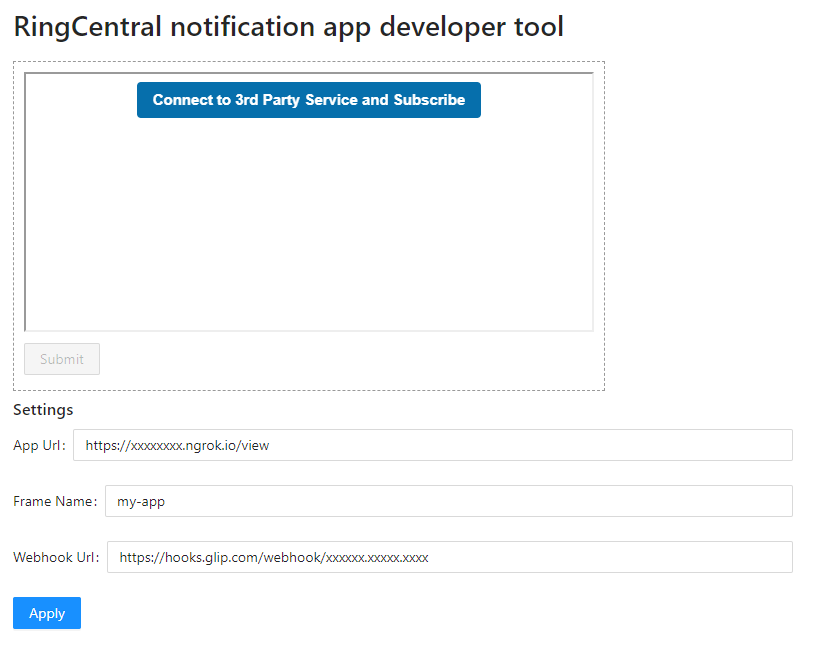
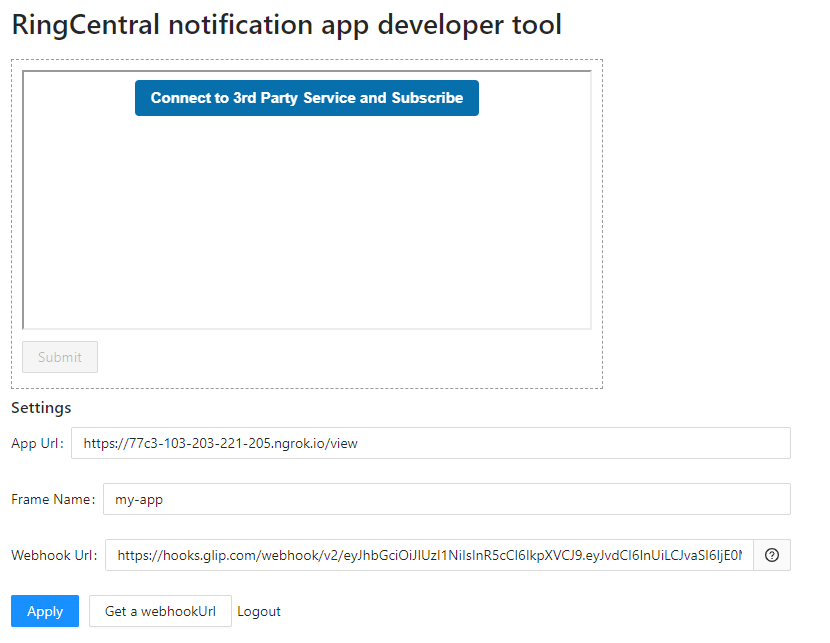
Updated with Drake's new developer tool

diff --git a/README.md b/README.md
@@ -76,7 +76,9 @@ For local development, we can use [RingCentral notification app developer tool](
 To use above tool, there are two fields we want to fill in:
 
 1. `App Url`: It is for this tool to retrieve the app's entry point to render. In our framework, it's set to `https://xxxx.ngrok.io/view`
-2. `Webhook Url`: Go to RingCentral App Gallery and add Incoming Webhook App to your conversation channel. As a result, you will get a webhook URL like `https://hooks.glip.com/webhook/xxxxx` (aka `RC_WEBHOOK`) and that's what we need here.
+2. `Webhook Url`, there are 2 ways:
+   1. Click `Get a webhookUrl` and login to your RingCentral App. Generate webhook url from your Team channel.
+   2. Go to RingCentral App Gallery and add Incoming Webhook App to your conversation channel. As a result, you will get a webhook URL like `https://hooks.glip.com/webhook/xxxxx` (aka `RC_WEBHOOK`) and that's what we need here.
 
 Now press `Apply` ([workflow 1-2](#workflow-diagram)). We should be able to see the UI button gets rendered in top block.
 
